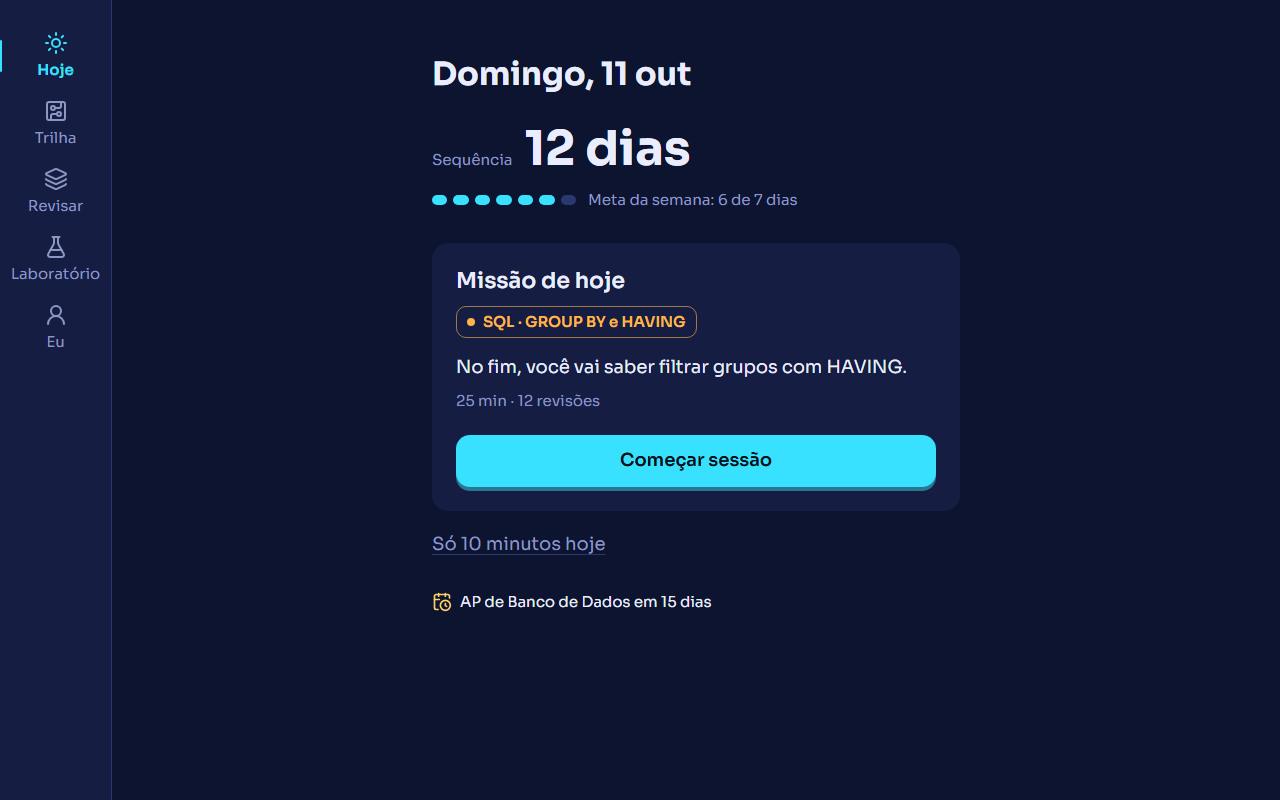
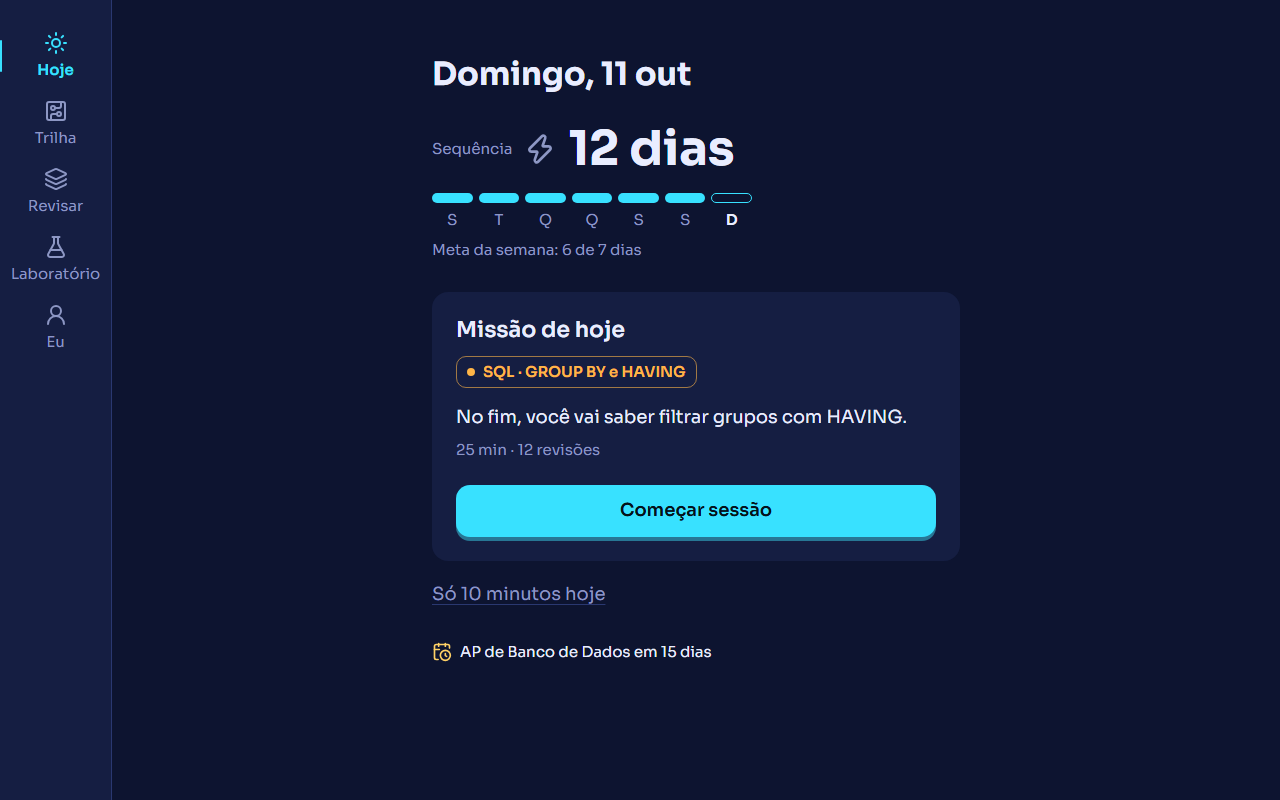
Registra a revisão de experiência
- DESIGN 5.1: vocabulário de movimento com durações; seção 9 com as
  decisões novas (semana, código sem ligaduras, item Certo/Errado)
- Doc 04, seção 11: pesquisa sobre "suco" na medida, reação ligada ao
  acerto, detalhes sedutores e gradiente da meta, com DOIs conferidos
- ROADMAP: o que mudou e o que isso adianta das fases 2 e 7
- Testes de fluxo esperam os dados carregarem antes do teclado e do
  axe; capturas sem movimento, inclusive a do feedback

diff --git a/e2e/capturas.spec.ts b/e2e/capturas.spec.ts
@@ -1,10 +1,18 @@
-import { expect, test } from "@playwright/test";
+import { expect, test, type Page } from "@playwright/test";
 
 import { fixarRelogio } from "./relogio";
 
 // pnpm capturas: grava docs/capturas/<tela>-<projeto>.png para comparar com o DESIGN.md.
 // O /design sai inteiro; as telas do app saem do tamanho da janela, com a navegação.
-const TELAS = [
+// Sem movimento, para a captura mostrar o estado final de cada tela.
+test.use({ reducedMotion: "reduce" });
+
+const TELAS: {
+  nome: string;
+  rota: string;
+  paginaInteira: boolean;
+  antes?: (page: Page) => Promise<void>;
+}[] = [
   { nome: "design", rota: "/design", paginaInteira: true },
   { nome: "hoje", rota: "/", paginaInteira: false },
   { nome: "trilha", rota: "/trilha", paginaInteira: false },
@@ -12,13 +20,25 @@ const TELAS = [
   { nome: "laboratorio", rota: "/laboratorio", paginaInteira: false },
   { nome: "perfil", rota: "/perfil", paginaInteira: false },
   { nome: "licao", rota: "/licao/bd-group-by-having", paginaInteira: false },
+  {
+    nome: "licao-feedback",
+    rota: "/licao/bd-group-by-having",
+    paginaInteira: false,
+    antes: async (page) => {
+      await page.getByRole("button", { name: "Errado" }).click();
+      await page.getByRole("button", { name: "Verificar" }).click();
+      await expect(page.getByRole("status")).toBeVisible();
+    },
+  },
 ];
 
 for (const tela of TELAS) {
-  test(`captura de ${tela.rota}`, { tag: "@captura" }, async ({ page }, info) => {
+  test(`captura de ${tela.nome}`, { tag: "@captura" }, async ({ page }, info) => {
     await fixarRelogio(page);
     await page.goto(tela.rota);
     await expect(page.getByRole("heading", { level: 1 })).toBeVisible();
+    await expect(page.locator('[aria-busy="true"]')).toHaveCount(0);
+    await tela.antes?.(page);
     await page.evaluate(() => document.fonts.ready);
 
     await page.screenshot({

diff --git a/e2e/navegacao.spec.ts b/e2e/navegacao.spec.ts
@@ -14,6 +14,12 @@ function linkDaNavegacao(page: Page, nome: string) {
   return page.getByRole("navigation", { name: "Principal" }).getByRole("link", { name: nome });
 }
 
+/** Título visível e dados do navegador carregados: só então o teclado entra em cena. */
+async function telaPronta(page: Page) {
+  await expect(page.getByRole("heading", { level: 1 })).toBeVisible();
+  await expect(page.locator('[aria-busy="true"]')).toHaveCount(0);
+}
+
 /** Aperta Tab até o link da navegação ficar com o foco. */
 async function focarComTab(page: Page, nome: string) {
   const alvo = linkDaNavegacao(page, nome);
@@ -32,7 +38,7 @@ test.describe("navegação", () => {
   test("dá para ir a cada tela só com o teclado", async ({ page }) => {
     for (const destino of DESTINOS) {
       await page.goto(destino.caminho === "/" ? "/perfil" : "/");
-      await expect(page.getByRole("heading", { level: 1 })).toBeVisible();
+      await telaPronta(page);
 
       await focarComTab(page, destino.nome);
       await page.keyboard.press("Enter");
@@ -45,6 +51,7 @@ test.describe("navegação", () => {
 
   test("o primeiro Tab mostra o atalho que pula a navegação", async ({ page }) => {
     await page.goto("/trilha");
+    await telaPronta(page);
     await page.keyboard.press("Tab");
 
     const atalho = page.getByRole("link", { name: "Pular para o conteúdo" });

diff --git a/e2e/acessibilidade.spec.ts b/e2e/acessibilidade.spec.ts
@@ -12,6 +12,8 @@ for (const rota of ROTAS) {
       await fixarRelogio(page);
       await page.goto(rota);
       await expect(page.getByRole("heading", { level: 1 })).toBeVisible();
+      // Espera os dados do navegador carregarem: a checagem vale para a tela pronta.
+      await expect(page.locator('[aria-busy="true"]')).toHaveCount(0);
     });
 
     test("passa no axe: WCAG A e AA, inclusive contraste", async ({ page }) => {

diff --git a/docs/04_FUNDAMENTOS_DIDATICOS.md b/docs/04_FUNDAMENTOS_DIDATICOS.md
@@ -212,6 +212,19 @@ Para escrever lições, nesta ordem:
 
 ---
 
+## 11. Movimento e sensação de jogo (revisão de experiência, 11/10/2026)
+
+O que a pesquisa diz sobre deixar o app "vivo" sem atrapalhar o estudo:
+
+- **"Suco" na medida.** "Suco" (juiciness) é a reação visual a mais para cada ação do jogador. Em estudos controlados, deixou todos os jogos testados mais atraentes, mas só mudou a sensação de competência em situações específicas [Hicks et al., 2019]. Num experimento com quatro níveis de reação (nenhum, médio, alto e extremo), os níveis médio e alto superaram tanto o nenhum quanto o extremo em experiência, motivação e tempo de jogo [Kao, 2020].
+- **Reação ligada ao acerto, não enfeite.** Num estudo posterior, a reação que dependia do sucesso do jogador aumentou a motivação; a que só amplificava tudo reduziu [Kao et al., 2024, versão aberta]. No DOMÍNIO, o movimento acompanha a resposta: o painel sobe, o ícone acende e o progresso enche.
+- **Nada decorativo dentro do conteúdo.** Detalhes interessantes mas desnecessários atrapalham a aprendizagem [Rey, 2012]. Por isso, nenhuma animação de enfeite dentro da lição.
+- **Progresso visível perto da meta motiva.** Quanto mais perto da meta, maior o esforço para chegar (efeito do gradiente da meta) [Kivetz et al., 2006]. É o motivo da meta da semana com os dias e do "6 de 7" bem à vista.
+- **Vibração, para depois.** Vibrações curtas como reação melhoraram a experiência em jogos [Singhal & Schneider, 2021]. Fica como opção futura, desligável, só no Android (o navegador do iPhone não vibra).
+- **Durações.** Seguem o guia de transições do Next.js: saída rápida (150 ms), entrada mais suave (210 ms) e deslocamento curto (até 400 ms). O detalhe está no DESIGN, seção 5.1.
+
+---
+
 ## Referências
 
 Adesope, O. O., Trevisan, D. A., & Sundararajan, N. (2017). Rethinking the use of tests: A meta-analysis of practice testing. *Review of Educational Research, 87*(3), 659–701. https://doi.org/10.3102/0034654316689306
@@ -250,13 +263,21 @@ Gollwitzer, P. M., & Sheeran, P. (2006). Implementation intentions and goal achi
 
 Hattie, J., & Timperley, H. (2007). The power of feedback. *Review of Educational Research, 77*(1), 81–112. https://doi.org/10.3102/003465430298487
 
+Hicks, K., Gerling, K., Dickinson, P., & Vanden Abeele, V. (2019). Juicy game design: Understanding the impact of visual embellishments on player experience. In *Proceedings of the Annual Symposium on Computer-Human Interaction in Play (CHI PLAY '19)* (pp. 185–197). ACM. https://doi.org/10.1145/3311350.3347171
+
 Kalyuga, S., Ayres, P., Chandler, P., & Sweller, J. (2003). The expertise reversal effect. *Educational Psychologist, 38*(1), 23–31. https://doi.org/10.1207/S15326985EP3801_4
+
+Kao, D. (2020). The effects of juiciness in an action RPG. *Entertainment Computing, 34*, 100359. https://doi.org/10.1016/j.entcom.2020.100359
+
+Kao, D., Ballou, N., Breitsohl, J., Gerling, K., & Deterding, S. (2024). *How does juicy game feedback motivate? Testing curiosity, competence, and effectance* [versão aberta]. PsyArXiv. https://doi.org/10.31234/osf.io/f83dp
 
 Kestin, G., Miller, K., Klales, A., Milbourne, T., & Ponti, G. (2025). AI tutoring outperforms in-class active learning: An RCT introducing a novel research-based design in an authentic educational setting. *Scientific Reports, 15*, 17458. https://doi.org/10.1038/s41598-025-97652-6
 
 Knouse, L. E., Rawson, K. A., Vaughn, K. E., & Dunlosky, J. (2016). Does testing improve learning for college students with attention-deficit/hyperactivity disorder? *Clinical Psychological Science, 4*(1), 136–143. https://doi.org/10.1177/2167702614565175
 
 Knouse, L. E., Rawson, K. A., & Dunlosky, J. (2020). How much do college students with ADHD benefit from retrieval practice when learning key-term definitions? *Learning and Instruction, 68*, 101330. https://doi.org/10.1016/j.learninstruc.2020.101330
+
+Kivetz, R., Urminsky, O., & Zheng, Y. (2006). The goal-gradient hypothesis resurrected: Purchase acceleration, illusionary goal progress, and customer retention. *Journal of Marketing Research, 43*(1), 39–58. https://doi.org/10.1509/jmkr.43.1.39
 
 Kulik, C.-L. C., Kulik, J. A., & Bangert-Drowns, R. L. (1990). Effectiveness of mastery learning programs: A meta-analysis. *Review of Educational Research, 60*(2), 265–299. https://doi.org/10.3102/00346543060002265
 
@@ -272,6 +293,8 @@ Minear, M., Coane, J. H., Cooney, S., Boland, S., & Serrano, A. (2023). Is pract
 
 Qian, Y., & Lehman, J. (2017). Students' misconceptions and other difficulties in introductory programming: A literature review. *ACM Transactions on Computing Education, 18*(1), 1–24. https://doi.org/10.1145/3077618
 
+Rey, G. D. (2012). A review of research and a meta-analysis of the seductive detail effect. *Educational Research Review, 7*(3), 216–237. https://doi.org/10.1016/j.edurev.2012.05.003
+
 Roediger, H. L., & Karpicke, J. D. (2006). Test-enhanced learning: Taking memory tests improves long-term retention. *Psychological Science, 17*(3), 249–255. https://doi.org/10.1111/j.1467-9280.2006.01693.x
 
 Sailer, M., & Homner, L. (2020). The gamification of learning: A meta-analysis. *Educational Psychology Review, 32*(1), 77–112. https://doi.org/10.1007/s10648-019-09498-w
@@ -279,6 +302,8 @@ Sailer, M., & Homner, L. (2020). The gamification of learning: A meta-analysis. 
 Sentance, S., Waite, J., & Kallia, M. (2019). Teaching computer programming with PRIMM: A sociocultural perspective. *Computer Science Education, 29*(2–3), 136–176. https://doi.org/10.1080/08993408.2019.1608781
 
 Shute, V. J. (2008). Focus on formative feedback. *Review of Educational Research, 78*(1), 153–189. https://doi.org/10.3102/0034654307313795
+
+Singhal, T., & Schneider, O. (2021). Juicy haptic design: Vibrotactile embellishments can improve player experience in games. In *Proceedings of the 2021 CHI Conference on Human Factors in Computing Systems* (pp. 1–11). ACM. https://doi.org/10.1145/3411764.3445463
 
 Sinha, T., & Kapur, M. (2021). When problem solving followed by instruction works: Evidence for productive failure. *Review of Educational Research, 91*(5), 761–798. https://doi.org/10.3102/00346543211019105
 
@@ -292,4 +317,4 @@ Wisniewski, B., Zierer, K., & Hattie, J. (2020). The power of feedback revisited
 
 Ye, J., Su, J., & Cao, Y. (2022). A stochastic shortest path algorithm for optimizing spaced repetition scheduling. In *Proceedings of the 28th ACM SIGKDD Conference on Knowledge Discovery and Data Mining* (pp. 4381–4390). ACM. https://doi.org/10.1145/3534678.3539081
 
-Documentação técnica consultada: [SQLite: Quirks](https://www.sqlite.org/quirks.html) · [SQLite: expressões](https://www.sqlite.org/lang_expr.html) · [SQLite: tabelas STRICT](https://www.sqlite.org/stricttables.html) · [PGlite](https://pglite.dev/) · [FSRS: o algoritmo](https://github.com/open-spaced-repetition/awesome-fsrs/wiki/The-Algorithm).
+Documentação técnica consultada: guia "View transitions" do Next.js 16.4 (`node_modules/next/dist/docs/01-app/02-guides/view-transitions.md`) · [SQLite: Quirks](https://www.sqlite.org/quirks.html) · [SQLite: expressões](https://www.sqlite.org/lang_expr.html) · [SQLite: tabelas STRICT](https://www.sqlite.org/stricttables.html) · [PGlite](https://pglite.dev/) · [FSRS: o algoritmo](https://github.com/open-spaced-repetition/awesome-fsrs/wiki/The-Algorithm).

diff --git a/docs/DESIGN.md b/docs/DESIGN.md
@@ -77,6 +77,22 @@ Só três momentos de movimento, todos respondendo a ação do usuário:
 
 Com `prefers-reduced-motion`: troca tudo por mudança instantânea de estado.
 
+### 5.1 Transições de suporte (revisão de experiência, 11/10/2026)
+
+Além dos três momentos acima, pequenas transições ligam uma tela à outra e respondem ao toque. Regras: só opacidade ou deslocamento pequeno, nada de quique ou elástico, nada que se mexa sozinho. O "suco" vem só do acerto e do progresso, nunca de enfeite no meio do conteúdo (doc 04, seção 11).
+
+| Momento | O que acontece | Duração |
+|---|---|---|
+| Toque em botão, chip ou aba | O elemento afunda (botão tátil desce 4 px; chips e abas encolhem para 95 a 97%) | 75 a 100 ms |
+| Troca de aba | O conteúdo esmaece e o novo aparece; a navegação fica parada | 120 ms sai, 180 ms entra |
+| Entrar na lição / sair dela | O conteúdo anda 48 px para a esquerda (entrar) ou para a direita (sair) | 150 ms sai, 300 ms anda |
+| Conteúdo que acabou de carregar | Sobe 8 px e aparece no lugar do esqueleto | 210 a 300 ms |
+| Indicador da aba | O trecho aceso desliza até a aba tocada | 250 ms |
+| Segmento de progresso | A corrente enche o segmento da esquerda para a direita | 300 ms |
+| Ícone do feedback | Acende (cresce de 60% para 100%) logo depois do painel subir | 200 ms |
+
+Implementação: transições entre telas pela View Transitions API (`<ViewTransition>` do React e `transitionTypes` nos links), CSS em `app/globals.css` (seção 5.1); o resto com Motion e transições de CSS. Tudo desliga com `prefers-reduced-motion`.
+
 ## 6. Telas
 
 ### 6.1 Hoje (tela inicial)
@@ -209,3 +225,6 @@ Tomadas na Fase 0 para completar o que este documento não definia. Valem até s
 - **ALG II usa o mesmo ciano de `--corrente`** (`#38E1FF`). Mantido por enquanto; para separar, basta trocar `--sinal-alg2`.
 - **Navegação (Fase 1).** No celular, barra inferior com "Lab" no lugar de "Laboratório" (o nome inteiro fica para leitores de tela). A partir de 1024 px, trilho lateral de 112 px. O item atual acende em `--corrente`, com um trecho de trilha aceso, texto em 600 e `aria-current`.
 - **Esqueleto de carregamento parado**, sem pulsar: o movimento só responde a ação (seção 5).
+- **Meta da semana com os dias (revisão de experiência).** Segunda a domingo, com a inicial embaixo: dia estudado cheio em `--corrente`, hoje com contorno enquanto está aberto. O ícone da sequência (raio do Lucide) acende só quando hoje já teve estudo.
+- **Código sem ligaduras.** A JetBrains Mono mostraria `>=` como `≥` e `!=` como `≠`; no DOMÍNIO, código aparece com os caracteres que se digitam (`font-variant-ligatures: none`).
+- **Item Certo/Errado.** Dois botões grandes (64 px de altura) lado a lado; depois de verificar, o gabarito ganha borda e ícone de acerto, e a escolha errada, de erro. No erro de um item C/E não existe "Tentar de novo" (só há duas opções): o painel mostra o gabarito, a justificativa e Continuar.

diff --git a/docs/ROADMAP.md b/docs/ROADMAP.md
@@ -171,6 +171,18 @@ Didática (`docs/04_FUNDAMENTOS_DIDATICOS.md`, seções 8 e 9): no modo C/E, a c
 
 ---
 
+## Revisão de experiência (11/10/2026, entre as fases 1 e 2)
+
+Revisão feita do ponto de vista de quem usa, com as capturas antes e depois. O que mudou:
+- **"Começar sessão" deixou de cair em "em construção":** abre o desafio da lição, jogável (escolher, Verificar, feedback, concluir), e a tentativa fica guardada com o `erro_tipo`. Isso adiantou duas peças da Fase 2: `ItemCertoErrado` e o formato do player; o player completo continua na Fase 2.
+- **Movimento:** transições entre telas pela View Transitions API (aba esmaece; lição entra pela direita e sai pela esquerda), indicador da aba que desliza, toque que afunda, segmento de progresso que enche, ícone do feedback que acende. Tudo desliga com reduzir movimento (DESIGN 5.1).
+- **Hoje:** meta da semana com os dias de segunda a domingo e o de hoje marcado; a sequência e a semana saem dos dias estudados, e o ícone da sequência acende quando hoje já teve estudo.
+- **Abas com conteúdo:** Trilha mostra uma prévia linear de Banco de Dados (a Trilha de Circuito completa continua na Fase 7); Laboratório mostra as tabelas da Apostila Viva; Revisar conta as cartas; Eu resume sequência, semana e domínio.
+- **Código sem ligaduras** (`>=` não vira `≥`) e bloco de código focável quando rola.
+- Testes: 91 de unidade e 76 de fluxo em 390 e 1280 px (inclui o desafio jogado nos dois caminhos, o axe com o painel aberto e as transições disparando), mais 16 capturas.
+
+---
+
 ## Regra de conteúdo para todas as fases
 
 Cada nova lição entra em `content/<disciplina>/` e precisa: passar no schema, seguir a ordem desafio → conceito → exemplo → prática → explique, usar o schema da Apostila Viva nos exemplos, e ter pelo menos um item C/E com justificativa.
